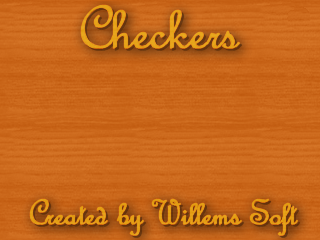
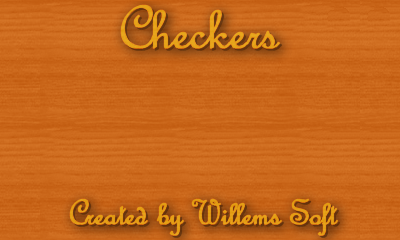
retouch colored credits and titlescreen + make titlescreen 400x240
(320x240 cutout is still possible in SDL2API)

Changed region(s): [[0.2188, 0.0, 0.7812, 0.2333], [0.4688, 0.8167, 0.9688, 1.0], [0.0625, 0.8167, 0.4688, 0.9917]]

diff --git a/src/coptionmenu.cpp b/src/coptionmenu.cpp
@@ -133,28 +133,28 @@ void COptionMenu::Draw(LCDBitmap *Surface)
 {
     // draw the title screen background
     pd->graphics->drawBitmap(IMGTitleScreen, 0, 0, kBitmapUnflipped);
-	const int starty = 50, yspacing = 30;
+	const int starty = 50, yspacing = 30, startx = 80;
 
     if (Selection == 1)
     {
         if(OptionJump)
         {
-            pd->graphics->drawBitmap(IMGJumpEnabled1, 40, starty, kBitmapUnflipped);
+            pd->graphics->drawBitmap(IMGJumpEnabled1, startx, starty, kBitmapUnflipped);
         }
         else
         {
-			pd->graphics->drawBitmap(IMGJumpDisabled1, 40, starty, kBitmapUnflipped);
+			pd->graphics->drawBitmap(IMGJumpDisabled1, startx, starty, kBitmapUnflipped);
         }
     }
     else
     {
         if(OptionJump)
         {
-			pd->graphics->drawBitmap(IMGJumpEnabled2, 40, starty, kBitmapUnflipped);
+			pd->graphics->drawBitmap(IMGJumpEnabled2, startx, starty, kBitmapUnflipped);
         }
         else
         {
-            pd->graphics->drawBitmap(IMGJumpDisabled2, 40, starty, kBitmapUnflipped);
+            pd->graphics->drawBitmap(IMGJumpDisabled2, startx, starty, kBitmapUnflipped);
         }
     }
 
@@ -163,16 +163,16 @@ void COptionMenu::Draw(LCDBitmap *Surface)
         switch(OptionDifficulty)
         {
             case VeryEasy:
-                pd->graphics->drawBitmap(IMGVeryEasy1, 40, starty + (1 * yspacing) + 4, kBitmapUnflipped);
+                pd->graphics->drawBitmap(IMGVeryEasy1, startx, starty + (1 * yspacing) + 4, kBitmapUnflipped);
                 break;
             case Easy:
-				pd->graphics->drawBitmap(IMGEasy1, 40, starty + (1 * yspacing)+ 4, kBitmapUnflipped);
+				pd->graphics->drawBitmap(IMGEasy1, startx, starty + (1 * yspacing)+ 4, kBitmapUnflipped);
 				break;
             case Hard:
-                pd->graphics->drawBitmap(IMGHard1, 40, starty + (1 * yspacing)+ 4, kBitmapUnflipped);
+                pd->graphics->drawBitmap(IMGHard1, startx, starty + (1 * yspacing)+ 4, kBitmapUnflipped);
                 break;
             case VeryHard:
-                pd->graphics->drawBitmap(IMGVeryHard1, 40, starty + (1 * yspacing)+ 4, kBitmapUnflipped);
+                pd->graphics->drawBitmap(IMGVeryHard1, startx, starty + (1 * yspacing)+ 4, kBitmapUnflipped);
                 break;
         }
     }
@@ -181,16 +181,16 @@ void COptionMenu::Draw(LCDBitmap *Surface)
         switch(OptionDifficulty)
         {
    			case VeryEasy:
-                pd->graphics->drawBitmap(IMGVeryEasy2, 40, starty + (1 * yspacing)+ 4, kBitmapUnflipped);
+                pd->graphics->drawBitmap(IMGVeryEasy2, startx, starty + (1 * yspacing)+ 4, kBitmapUnflipped);
                 break;
             case Easy:
-				pd->graphics->drawBitmap(IMGEasy2, 40, starty + (1 * yspacing)+ 4, kBitmapUnflipped);
+				pd->graphics->drawBitmap(IMGEasy2, startx, starty + (1 * yspacing)+ 4, kBitmapUnflipped);
 				break;
             case Hard:
-                pd->graphics->drawBitmap(IMGHard2, 40, starty + (1 * yspacing)+ 4, kBitmapUnflipped);
+                pd->graphics->drawBitmap(IMGHard2, startx, starty + (1 * yspacing)+ 4, kBitmapUnflipped);
                 break;
             case VeryHard:
-                pd->graphics->drawBitmap(IMGVeryHard2, 40, starty + (1 * yspacing)+ 4, kBitmapUnflipped);
+                pd->graphics->drawBitmap(IMGVeryHard2, startx, starty + (1 * yspacing)+ 4, kBitmapUnflipped);
                 break;
         }
     }
@@ -199,22 +199,22 @@ void COptionMenu::Draw(LCDBitmap *Surface)
     {
         if(OptionMusic)
         {
-            pd->graphics->drawBitmap(IMGMusicEnabled1, 40, starty + (2 * yspacing), kBitmapUnflipped);
+            pd->graphics->drawBitmap(IMGMusicEnabled1, startx, starty + (2 * yspacing), kBitmapUnflipped);
         }
         else
         {
-			pd->graphics->drawBitmap(IMGMusicDisabled1, 40, starty + (2 * yspacing), kBitmapUnflipped);
+			pd->graphics->drawBitmap(IMGMusicDisabled1, startx, starty + (2 * yspacing), kBitmapUnflipped);
         }
     }
     else
     {
         if(OptionMusic)
         {
-			pd->graphics->drawBitmap(IMGMusicEnabled2, 40, starty + (2 * yspacing), kBitmapUnflipped);
+			pd->graphics->drawBitmap(IMGMusicEnabled2, startx, starty + (2 * yspacing), kBitmapUnflipped);
         }
         else
         {
-            pd->graphics->drawBitmap(IMGMusicDisabled2, 40, starty + (2 * yspacing), kBitmapUnflipped);
+            pd->graphics->drawBitmap(IMGMusicDisabled2, startx, starty + (2 * yspacing), kBitmapUnflipped);
         }
     }
 
@@ -223,22 +223,22 @@ void COptionMenu::Draw(LCDBitmap *Surface)
     {
         if(OptionSound)
         {
-            pd->graphics->drawBitmap(IMGSoundEnabled1, 40, starty + (3 * yspacing), kBitmapUnflipped);
+            pd->graphics->drawBitmap(IMGSoundEnabled1, startx, starty + (3 * yspacing), kBitmapUnflipped);
         }
         else
         {
-			pd->graphics->drawBitmap(IMGSoundDisabled1, 40, starty + (3 * yspacing), kBitmapUnflipped);
+			pd->graphics->drawBitmap(IMGSoundDisabled1, startx, starty + (3 * yspacing), kBitmapUnflipped);
         }
     }
     else
     {
         if(OptionSound)
         {
-			pd->graphics->drawBitmap(IMGSoundEnabled2, 40, starty + (3 * yspacing), kBitmapUnflipped);
+			pd->graphics->drawBitmap(IMGSoundEnabled2, startx, starty + (3 * yspacing), kBitmapUnflipped);
         }
         else
         {
-            pd->graphics->drawBitmap(IMGSoundDisabled2, 40, starty + (3 * yspacing), kBitmapUnflipped);
+            pd->graphics->drawBitmap(IMGSoundDisabled2, startx, starty + (3 * yspacing), kBitmapUnflipped);
         }
     }
 }

diff --git a/src/cmainmenu.cpp b/src/cmainmenu.cpp
@@ -57,30 +57,30 @@ void CMainMenu::Draw(LCDBitmap *Surface)
 
     if (Selection == 1)
     {
-        pd->graphics->drawBitmap(IMGPlay1, 100, 62, kBitmapUnflipped);
+        pd->graphics->drawBitmap(IMGPlay1, 140, 62, kBitmapUnflipped);
     }
     else
     {
-        pd->graphics->drawBitmap(IMGPlay2, 100, 62, kBitmapUnflipped);
+        pd->graphics->drawBitmap(IMGPlay2, 140, 62, kBitmapUnflipped);
     }
 
     if (Selection == 2)
     {
-        pd->graphics->drawBitmap(IMGOptions1, 100, 107, kBitmapUnflipped);
+        pd->graphics->drawBitmap(IMGOptions1, 140, 107, kBitmapUnflipped);
 	}
     else
     {
-        pd->graphics->drawBitmap(IMGOptions2, 100, 107, kBitmapUnflipped);
+        pd->graphics->drawBitmap(IMGOptions2, 140, 107, kBitmapUnflipped);
     }
 
 
     if (Selection == 3) // = quit draw purple
     {
-        pd->graphics->drawBitmap(IMGCredits1, 100, 150, kBitmapUnflipped);
+        pd->graphics->drawBitmap(IMGCredits1, 140, 150, kBitmapUnflipped);
     }
     else // draw blue
     {
-        pd->graphics->drawBitmap(IMGCredits2, 100, 150, kBitmapUnflipped);
+        pd->graphics->drawBitmap(IMGCredits2, 140, 150, kBitmapUnflipped);
     }
 
 }

diff --git a/src/options.cpp b/src/options.cpp
@@ -1,4 +1,5 @@
 #include <pd_api.h>
+#include "pd_helperfuncs.h"
 #include "options.h"
 #include "common.h"
 #include "coptionmenu.h"
@@ -30,6 +31,7 @@ void ApplyOptions()
 
 void OptionsDeInit()
 {
+	pd->graphics->setDrawOffset(40, 0);
 	delete OptionsMenu;
 }
 
@@ -76,6 +78,7 @@ void Options()
 			GameState = GSTitleScreenInit;
 		}
 
+		pd->graphics->setDrawOffset(0, 0);
 		OptionsMenu->Draw(NULL);
     }
 	

diff --git a/src/credits.cpp b/src/credits.cpp
@@ -9,8 +9,8 @@ LCDBitmap *IMGCredits, *IMGTitleScreen;
 void CreditsDeInit()
 {
 	pd->graphics->clear(kColorWhite);
-	pd->graphics->setDrawOffset(40, 0);	
 	pd->graphics->drawBitmap(IMGTitleScreen, 0, 0, kBitmapUnflipped);
+	pd->graphics->setDrawOffset(40, 0);	
 	pd->graphics->freeBitmap(IMGCredits);
 	pd->graphics->freeBitmap(IMGTitleScreen);
 }

diff --git a/src/titlescreen.cpp b/src/titlescreen.cpp
@@ -8,6 +8,7 @@ CMainMenu *Menu;
 
 void TitleScreenDeInit()
 {
+	pd->graphics->setDrawOffset(40, 0);
 	delete Menu;
 }
 
@@ -52,6 +53,7 @@ void TitleScreen()
 					break;
             }
 		}
+		pd->graphics->setDrawOffset(0, 0);
 		pd->graphics->clear(kColorWhite);
         Menu->Draw(NULL);
     }
